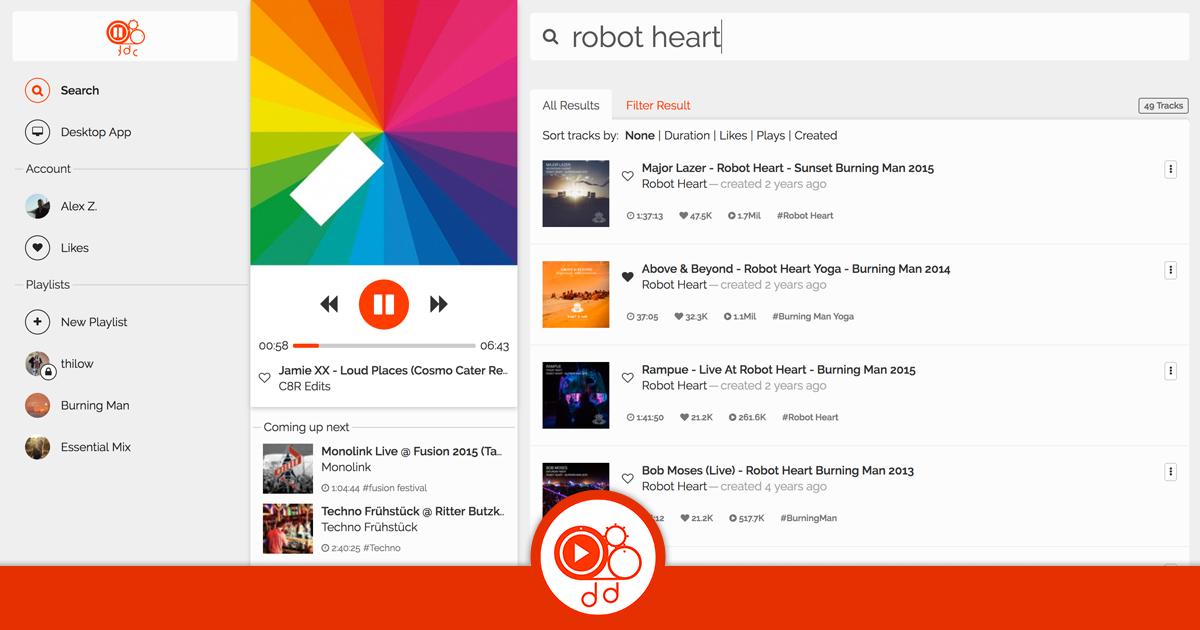
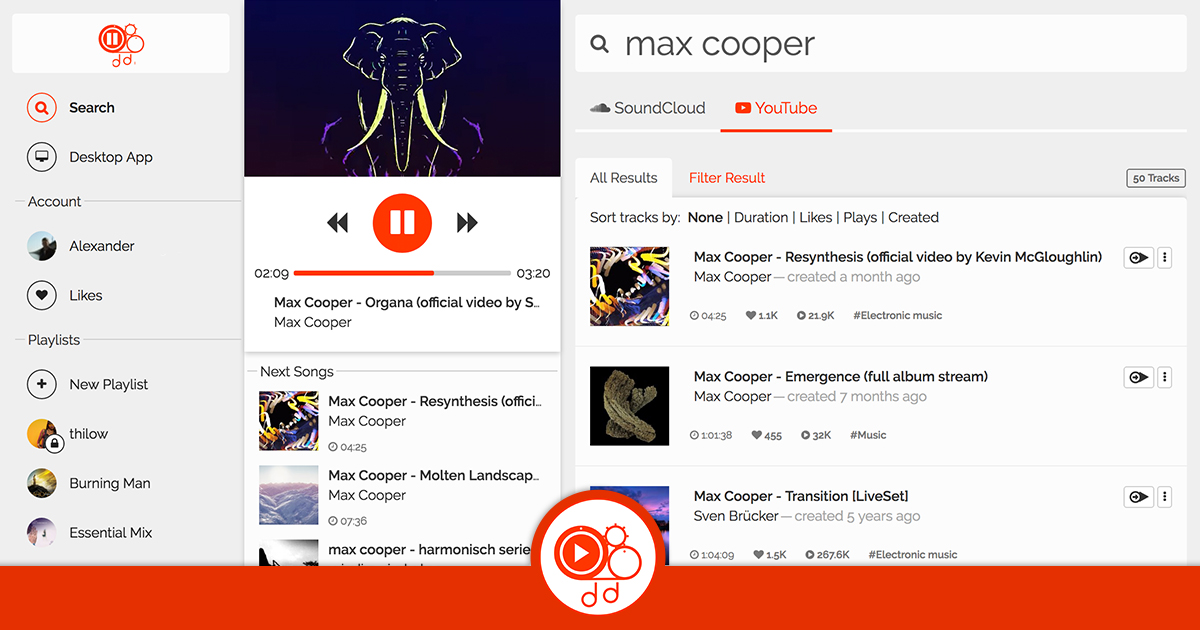
Release new version

diff --git a/README.md b/README.md
@@ -3,9 +3,14 @@
 # Cloud Player
 [![Cloud Player Teaser](https://raw.githubusercontent.com/Cloud-Player/web/master/src/assets/meta/social/facebook.jpg)](https://cloud-player.io)
 
-Cloud Player is an alternative SoundCloud player. It is using the official [SoundCloud API](https://developers.soundcloud.com/docs/api). 
+Cloud Player is an web based audio and video player. Currently it supports playback of SoundCloud and YouTube tracks.
+It is using the official 
+[SoundCloud API](https://developers.soundcloud.com/docs/api) and 
+[YouTube Data API](https://developers.google.com/youtube/v3/docs/)
+to search for SoundCloud tracks and YouTube videos. 
 
-Play all the tracks from SoundCloud and manage your likes and playlists. Also available as native desktop app to controll the player from your keyboard media keys.
+Search for tracks, play them and manage your liked tracks and playlists. 
+Also available as native desktop app to control the player from your keyboard media keys (play/pause/next/previous).
 
 [Start the webplayer](https://cloud-player.io)
 
@@ -46,19 +51,23 @@ Cloud Player is a study project created at [HTW Berlin](http://www.htw-berlin.de
 </table>
 
 ## Why?
-We created the Cloud Player to get started with Angular2. We were also interessted in the HTML5 audio api. Also we were missing a native desktop SoundCloud player. SoundCloud is providing a nice API to get access to their data.
-This is why we decided to build a audio player and use SoundCloud as the data source. 
+We created the Cloud Player to get started with Angular2. We were also interested in the HTML5 audio api. 
+Also we were missing a native desktop SoundCloud player. SoundCloud and YouTube are providing a nice API to get access to their data.
 
-We optimised the player to work on all major platforms like Smartphone, Tablet and Desktop PCs. 
+We optimised the player to work on Smartphones, Tablets and Desktop PCs. 
 
-By using a [service worker](https://developers.google.com/web/fundamentals/getting-started/primers/service-workers) the application is cached on your device it is not downloaded every time you start the Cloud Player. The [Web App Manifest](https://developers.google.com/web/fundamentals/engage-and-retain/web-app-manifest/) allows you to install the Cloud Player on your Android Homescreen
+By using a [service worker](https://developers.google.com/web/fundamentals/getting-started/primers/service-workers) 
+the application is cached on your device it is not downloaded every time you start the Cloud Player. 
+The [Web App Manifest](https://developers.google.com/web/fundamentals/engage-and-retain/web-app-manifest/) allows 
+you to install the Cloud Player on your Android Homescreen
 
-Thanks to the new [chrome mobile session API](https://developers.google.com/web/updates/2017/02/media-session) you can control the Cloud Player from your Android notification tray and lock screen. 
+Thanks to the new [chrome mobile session API](https://developers.google.com/web/updates/2017/02/media-session) you can control 
+the Cloud Player from your Android notification tray and lock screen. 
 
-[Electron](https://electron.atom.io/) allows us to ship the player as a native desktop application. You can install the native desktop Cloud Player on your Mac or Windows PC and control it from your keyboard media keys (play/pause, next/previous track).
+[Electron](https://electron.atom.io/) allows us to ship the player as a native desktop application. 
 
 ## Disclaimer
-We are neither related to SoundCloud nor was this build on behalf of SoundCloud
+We are neither related to SoundCloud/YouTube nor was this build on behalf of SoundCloud/YouTube
 
 ## License
 [GNU GPLv3](./LICENSE)

diff --git a/CHANGELOG.md b/CHANGELOG.md
@@ -1,3 +1,15 @@
+# v4.0.0
+- Call youtube api to search for tracks
+- Add filter to filter youtube tracks by duration
+- Improve scrolling for iOS devices
+- Resize player based on to aspect ration of a track
+- Retry play when play is called and player changes to status paused
+- Refactor code:
+  - Add support to collection and nested models for dynamic instances
+  - Generify tracks so it supports youtube tracks as well
+  - Add decorators to define dynamic instances for collection and nested models
+  - Refactor sliders to support ngModel and improve code readability
+
 # v3.1.0
 - Fix memory leak in tracks list by unbinding event listeners in playTrackOn directive
 - Add youtube-player to play youtube tracks in youtube html5 player iframe
